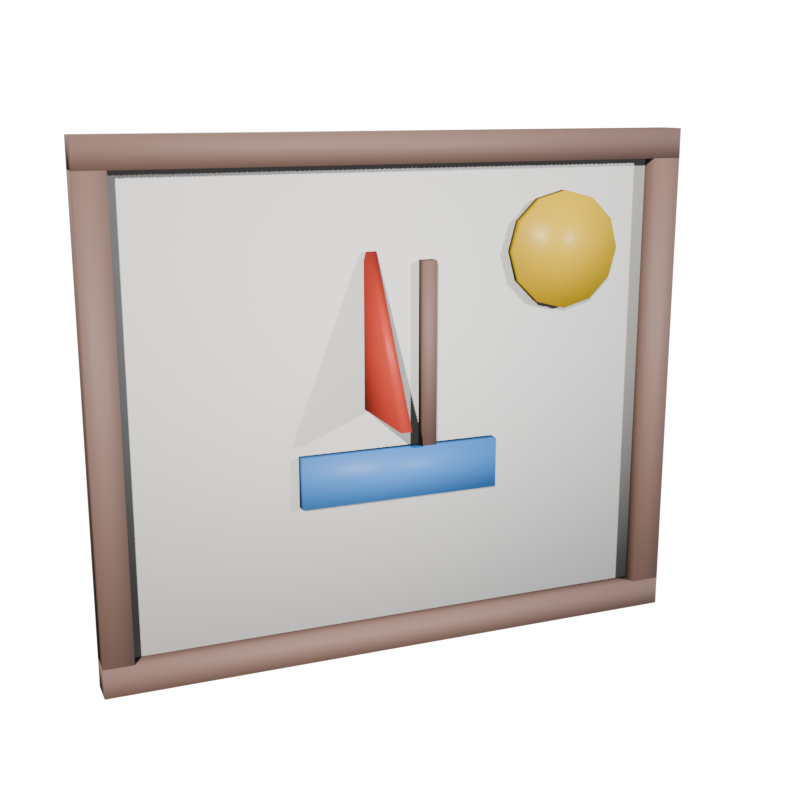
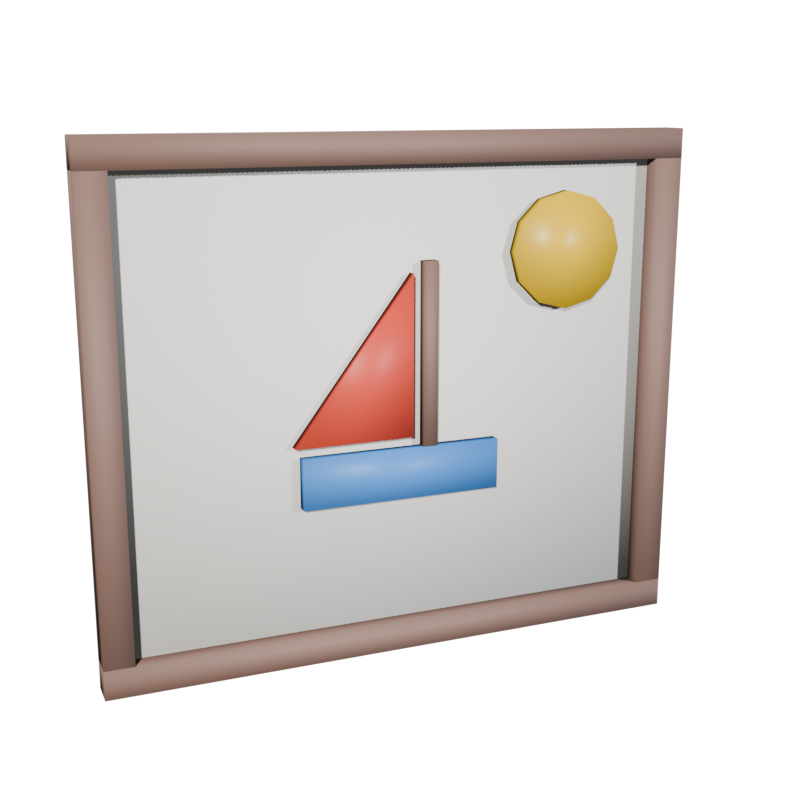
fix(art): cuadro_infantil pegado a la pared (espalda en z=0), sin vertices sueltos, relieve 0.04 m

diff --git a/assets/source/blender/generate_new_wall_props.py b/assets/source/blender/generate_new_wall_props.py
@@ -194,9 +194,10 @@ def build_cuadro_infantil():
     bpy.ops.object.transform_apply(scale=True)
     
     # Lienzo de fondo
-    bpy.ops.mesh.primitive_cube_add(size=1.0, location=(0, 0.01, 0))
+    # Cara trasera plana en y=0 (pegada a la pared)
+    bpy.ops.mesh.primitive_cube_add(size=1.0, location=(0, 0.00875, 0))
     canvas = bpy.context.object
-    canvas.scale = (0.76, 0.015, 0.64)
+    canvas.scale = (0.76, 0.0175, 0.64)
     bpy.ops.object.transform_apply(scale=True)
     
     # Dibujo infantil: Casco de barquito
@@ -212,11 +213,16 @@ def build_cuadro_infantil():
     bpy.ops.object.transform_apply(scale=True)
     
     # Vela triangular
-    bpy.ops.mesh.primitive_cylinder_add(vertices=3, radius=0.14, depth=0.015, location=(0.04, 0.025, 0.06))
-    sail = bpy.context.object
-    sail.rotation_euler = (math.radians(90), 0, math.radians(90))
-    sail.scale = (1.0, 1.0, 1.0)
-    bpy.ops.object.transform_apply(rotation=True, scale=True)
+    # (prisma triangular plano sobre el lienzo, en el plano XZ; sin geometria hacia fuera de la pared)
+    sail_mesh = bpy.data.meshes.new("Vela")
+    sail_pts = [(-0.015, -0.05), (-0.015, 0.17), (0.15, -0.05)]  # (x, z)
+    y0, y1 = 0.0175, 0.0325
+    sverts = [(x, y0, z) for x, z in sail_pts] + [(x, y1, z) for x, z in sail_pts]
+    sfaces = [(0, 2, 1), (3, 4, 5), (0, 1, 4, 3), (1, 2, 5, 4), (2, 0, 3, 5)]
+    sail_mesh.from_pydata(sverts, [], sfaces)
+    sail_mesh.update()
+    sail = bpy.data.objects.new("Vela", sail_mesh)
+    bpy.context.collection.objects.link(sail)
 
     # Sol infantil en la esquina superior izquierda
     bpy.ops.mesh.primitive_cylinder_add(vertices=12, radius=0.08, depth=0.015, location=(-0.24, 0.025, 0.19))
@@ -244,7 +250,22 @@ def build_cuadro_infantil():
     
     cuadro = bpy.context.object
     cuadro.name = "cuadro_infantil"
-    set_origin_to_base_back(cuadro)
+    # Hornear transformaciones (Ctrl+A) para que las coordenadas locales sean las del mundo
+    bpy.ops.object.transform_apply(location=True, rotation=True, scale=True)
+    # Eliminar vertices sueltos (sin aristas ni caras)
+    bm = bmesh.new()
+    bm.from_mesh(cuadro.data)
+    loose = [v for v in bm.verts if not v.link_edges and not v.link_faces]
+    bmesh.ops.delete(bm, geom=loose, context='VERTS')
+    bmesh.ops.recalc_face_normals(bm, faces=bm.faces)
+    bm.to_mesh(cuadro.data)
+    bm.free()
+    cuadro.data.update()
+    # Origen: centrado en X, base en z=0 y espalda plana en y=0 (sin recentrar en X)
+    zs = [v.co.z for v in cuadro.data.vertices]
+    ys = [v.co.y for v in cuadro.data.vertices]
+    cuadro.data.transform(__import__("mathutils").Matrix.Translation((0.0, -min(ys), -min(zs))))
+    cuadro.data.update()
     bpy.ops.object.shade_smooth()
     return cuadro
 
@@ -576,7 +597,10 @@ def generate_all():
     print("=== GENERANDO 5 PROPS DE PARED NUEVOS ===")
     results = []
 
+    only = os.environ.get("LULLABY_ONLY")  # ej. LULLABY_ONLY=cuadro_infantil
     for name, builder in NEW_WALL_PROPS:
+        if only and name != only:
+            continue
         print(f"\n--- Generando {name} ---")
         obj = builder()
         tris = get_tris(obj)
